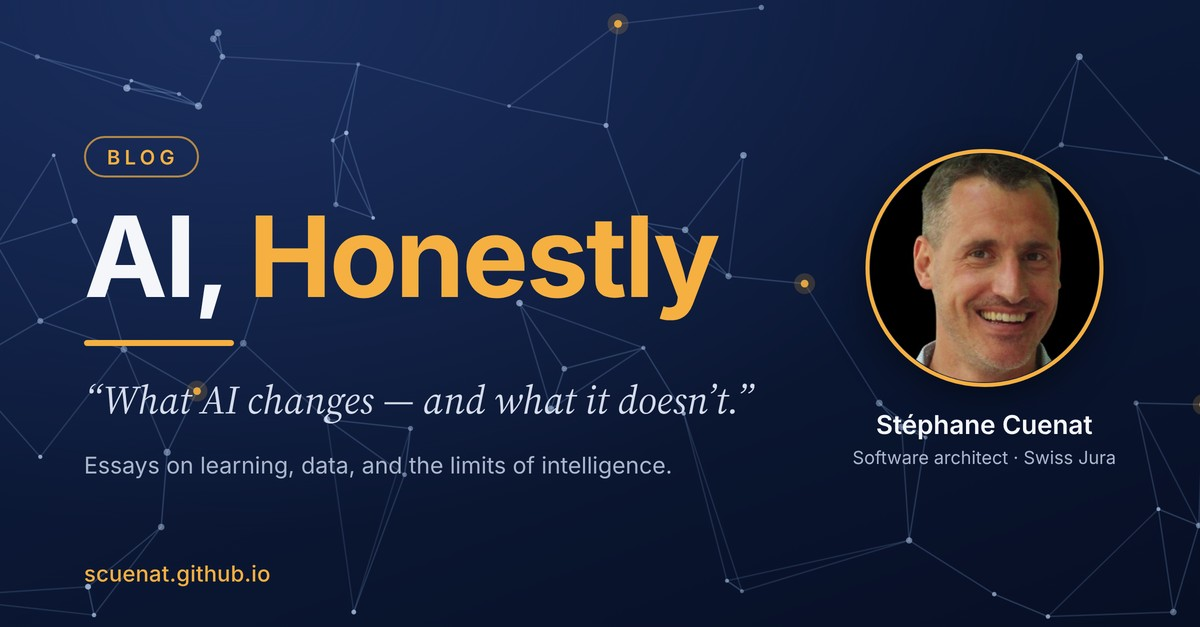
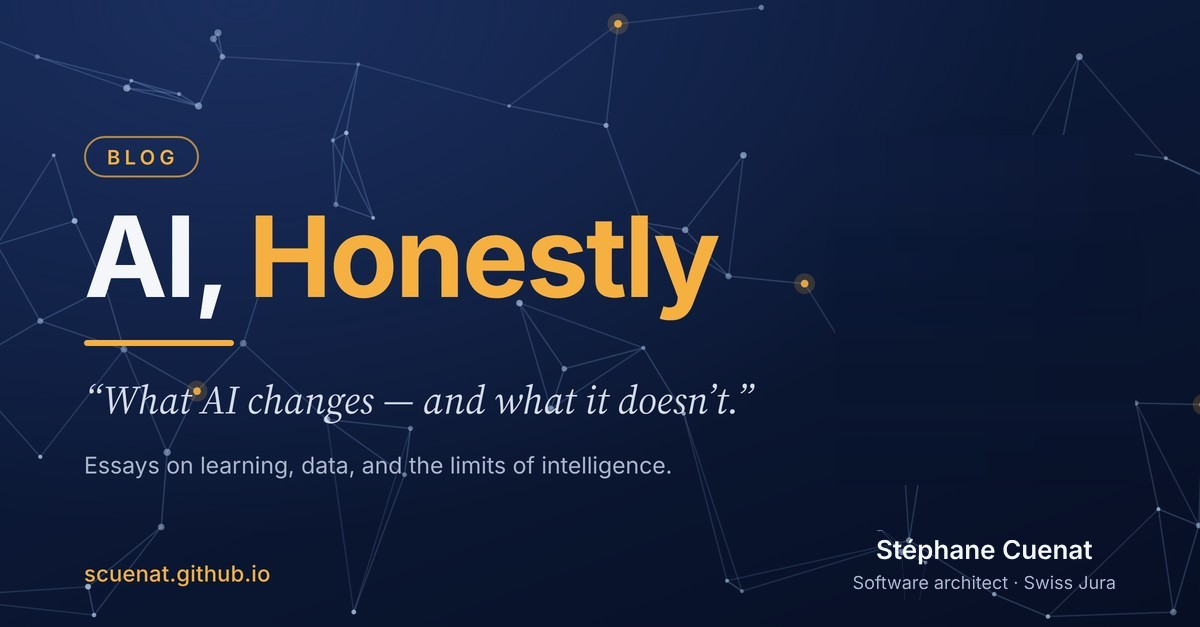
Keep the photo on the About page only; update university name
- Home banner: drop the photo block; "a software architect" now links to About
- Favicon and navbar logo: SC monogram instead of the photo
- Share card: photo removed, name kept as a byline
- About: Université Marie et Louis Pasteur (formerly Université de Franche-Comté)

Changed region(s): [[0.7092, 0.2121, 0.925, 0.6364], [0.7092, 0.8485, 0.925, 0.9394], [0.7092, 0.6364, 0.925, 0.7576]]

diff --git a/styles.scss b/styles.scss
@@ -17,7 +17,7 @@ body { line-height: 1.7; }
   border-bottom: 1px solid rgba($amber, .18);
   box-shadow: 0 1px 12px rgba(0, 0, 0, .18);
 
-  // Brand: photo, name, and the blog's name underneath
+  // Brand: monogram, name, and the blog's name underneath
   .navbar-brand-container { align-items: center; }
   .navbar-brand { font-family: $headings-font-family; font-weight: 600; letter-spacing: -.01em; }
   .navbar-logo { border-radius: 50%; max-height: 36px; box-shadow: 0 0 0 2px $amber; }
@@ -207,39 +207,10 @@ main:has(.hero) > header#title-block-header { display: none; }
     font-size: 1.02rem;
     color: #aab6cc;
   }
-  .hero-person {
-    flex: 0 0 auto;
-    display: flex;
-    flex-direction: column;
-    align-items: center;
-    text-align: center;
-    text-decoration: none;
-    color: #f4f6fa;
-    img {
-      width: 150px;
-      height: 150px;
-      border-radius: 50%;
-      box-shadow: 0 0 0 3px $amber, 0 10px 30px rgba(0, 0, 0, .45);
-      margin-bottom: .9rem;
-      transition: transform .2s ease;
-    }
-    &:hover img { transform: scale(1.03); }
-    .hero-name { font-weight: 600; }
-    .hero-role { font-size: .85rem; color: #aab6cc; }
-  }
+  p.hero-intro a { color: inherit; text-decoration-color: rgba($amber, .6); text-underline-offset: .2em; }
 }
 @media (max-width: 768px) {
-  .hero .hero-inner { flex-direction: column-reverse; align-items: flex-start; padding: 2.5rem 1rem; gap: 1.5rem; }
-  .hero .hero-person {
-    display: grid;
-    grid-template-columns: auto 1fr;
-    column-gap: .9rem;
-    align-items: center;
-    text-align: left;
-    img { grid-row: span 2; width: 64px; height: 64px; margin: 0; box-shadow: 0 0 0 2px $amber; }
-    .hero-name { align-self: end; }
-    .hero-role { align-self: start; }
-  }
+  .hero .hero-inner { padding: 2.5rem 1rem; }
   .quarto-listing-default .quarto-post .thumbnail { display: none; }
   .hero p.hero-tagline { font-size: 1.15rem; }
 }
